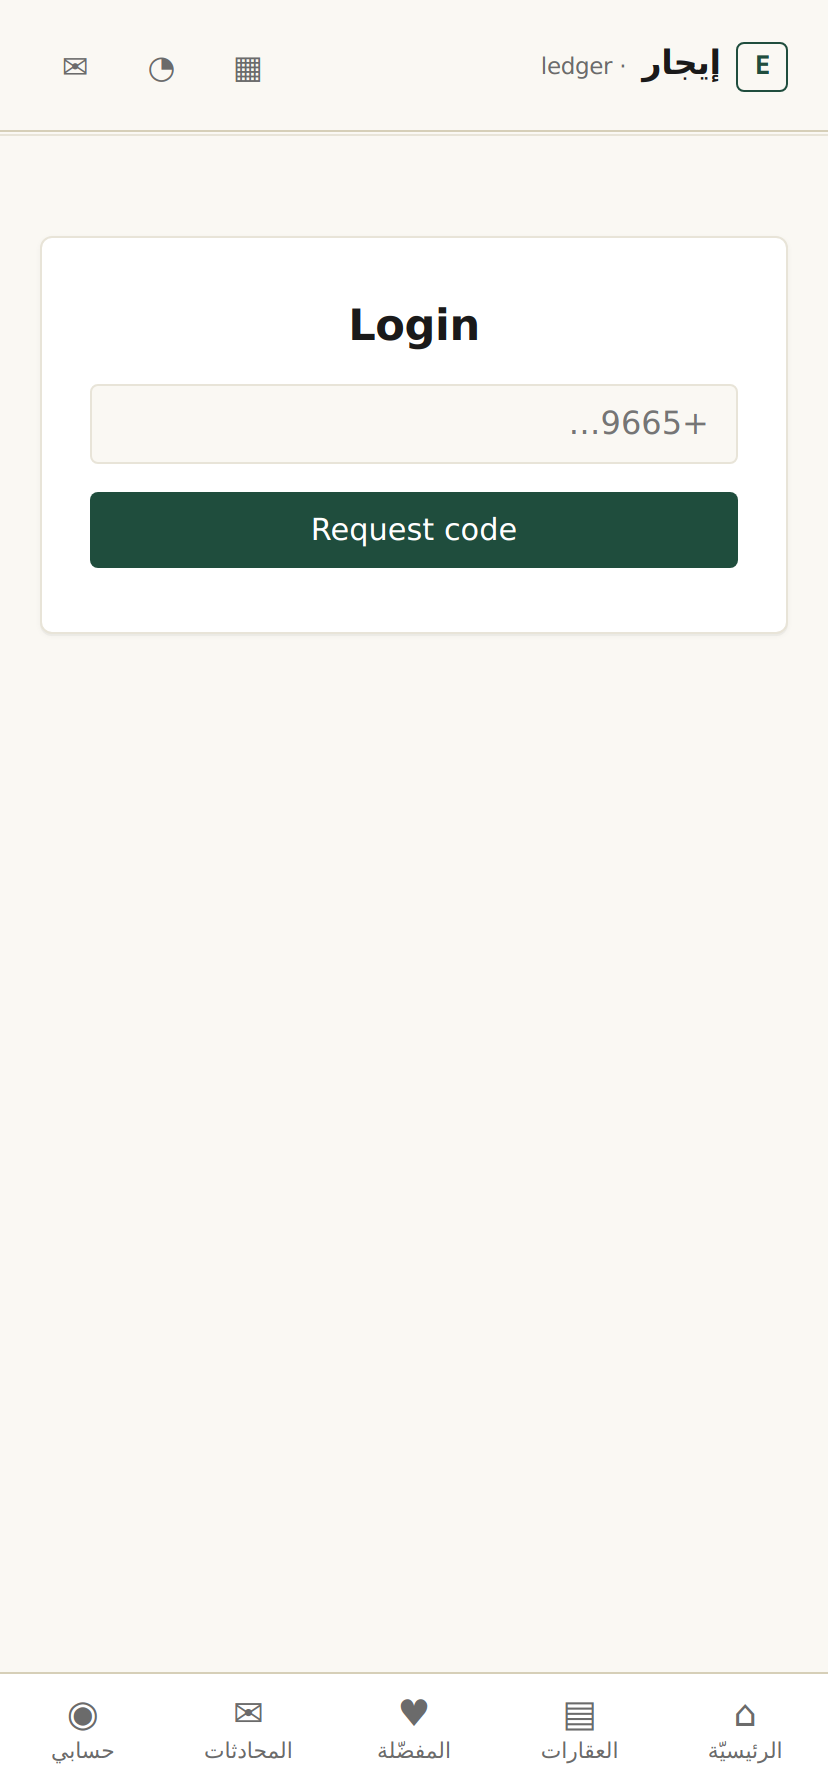
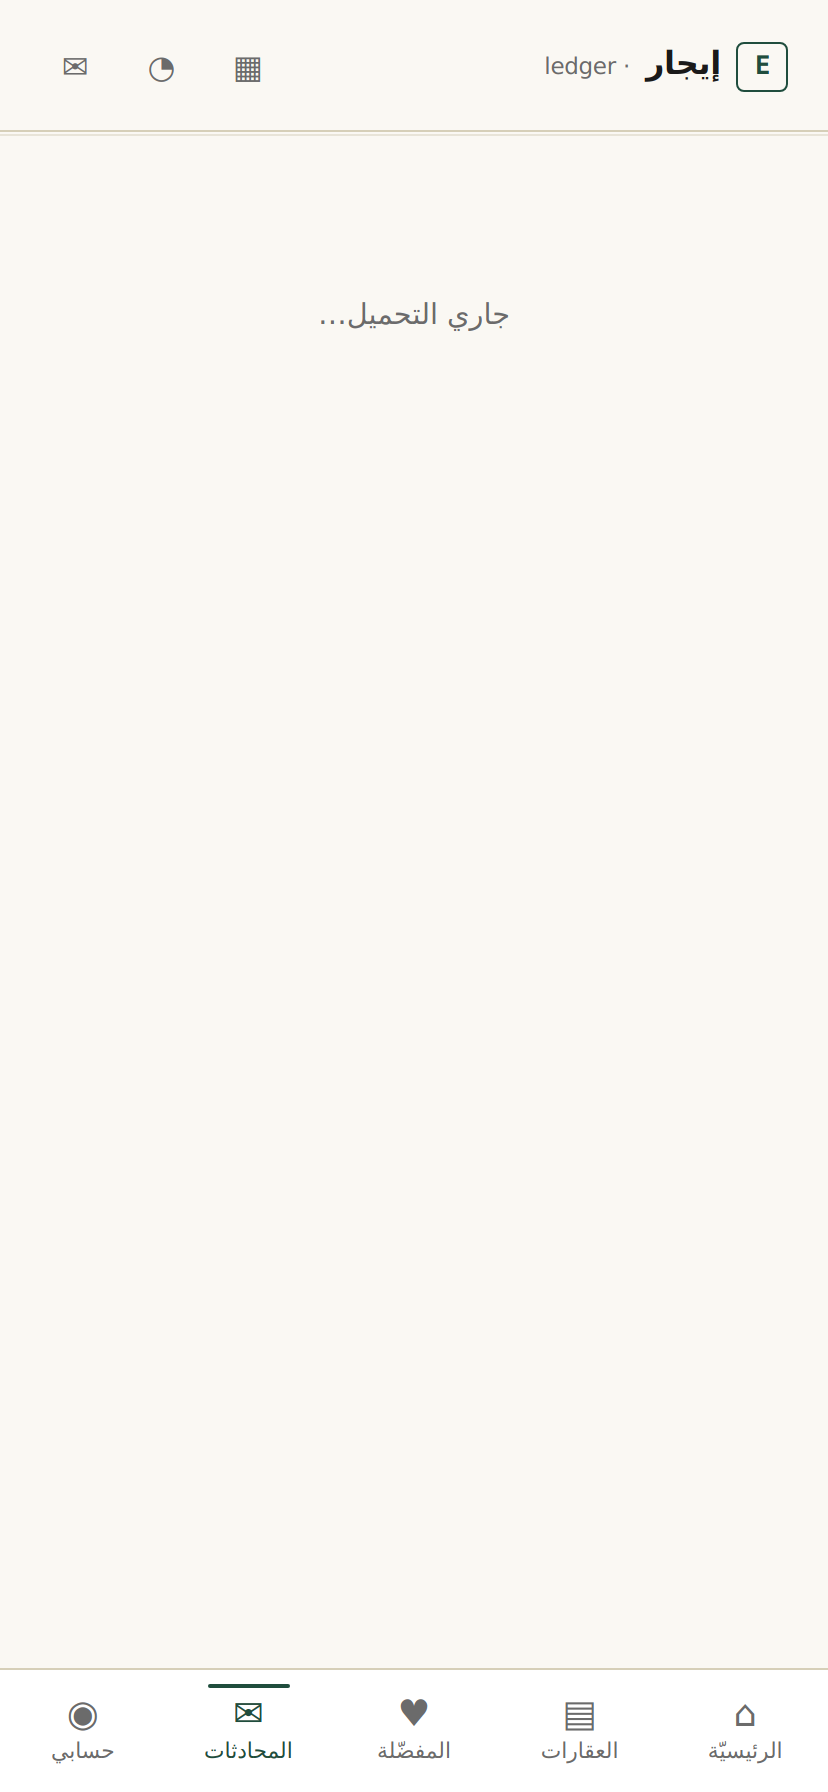
F22: V2 RUNS clean — Layer-6 runtime suite passes 0 violations
Root cause of previous crash: _RedirectToLogin called Nav.NavigateTo in
OnInitialized, which fires during prerender. NavigationException isn't
caught in user code at that phase ⇒ exit -1.

Fixes:
  _RedirectToLogin → OnAfterRenderAsync (interactive only, prerender-safe)
  prerender re-enabled (default) — first paint shows .ejar-shell
  HostedApp wraps both auth-gate branches in <LayoutView Layout=DefaultLayout>
  ejar-brand 1.05rem → 1rem (on design scale)
  ejar-bottomnav padding .35rem → .5rem (4-pt grid)
  --oam-ink-faint #9a9a9a → #6b6b6b (WCAG AA 4.5:1)
  app-v2.css — kit widget baseline classes (11 missing classes added)
  scripts/spatial-contracts.json — .ejar-shell approved as root selector

verify-runtime.mjs:
  6 URLs (/, /properties, /login, /dashboard, /chat, /notifications)
  J-template / F-computed / G-contrast / Y-spacing-scale: 0
  Total: 0 violations

Screenshots refreshed in tools/checks/screenshots/v2-*.png.

https://claude.ai/code/session_01N3A7BgG1Ga6fKYmi9CL1vk

diff --git a/Apps/Ejar/Customer/Shared/Ejar.Customer.UI.V2/wwwroot/app-v2.css b/Apps/Ejar/Customer/Shared/Ejar.Customer.UI.V2/wwwroot/app-v2.css
@@ -55,7 +55,7 @@ p  { line-height: 1.65; color: var(--oam-ink); }
 
 .ejar-brand {
   display: flex; align-items: baseline; gap: .5rem;
-  font-weight: 700; font-size: 1.05rem;
+  font-weight: 700; font-size: 1rem;          /* 16px on scale */
   color: var(--oam-ink);
   letter-spacing: -0.01em;
 }
@@ -95,7 +95,7 @@ p  { line-height: 1.65; color: var(--oam-ink); }
   display: flex; justify-content: space-around;
   background: var(--oam-card);
   border-top: 1px solid var(--oam-line-strong);
-  padding: .35rem 0 .5rem;
+  padding: .5rem 0;                /* 8px على شبكة 4-pt */
   z-index: 10;
   max-width: 760px; margin: 0 auto;
 }
@@ -347,3 +347,46 @@ p  { line-height: 1.65; color: var(--oam-ink); }
   color: var(--oam-exec);
   cursor: pointer;
 }
+
+/* ─── kit widget classes — Layer 2 baseline ─────────────────────────────
+ * كلاسات تَستعملها kit widgets الافتراضيّة. أبسط styling — bottom-up
+ * elegant: padding، borders، colors من OAM tokens.
+ * ─────────────────────────────────────────────────────────────────────── */
+.ac-chat-room        { display: flex; flex-direction: column; gap: .65rem; }
+.ac-create-listing   { padding: 1rem 0; }
+.ac-listing-details  { padding: 1rem 0; }
+.ac-listings-explore { padding: .25rem 0; }
+.ac-my-listings      { padding: 0; }
+.ac-my-listings header {
+  display: flex; justify-content: space-between; align-items: baseline;
+  margin-bottom: .65rem; padding-bottom: .35rem;
+  border-bottom: 1px solid var(--oam-line);
+}
+.ac-my-listings header h1 { margin: 0; font-size: 1.1rem; }
+.ac-profile          { padding: 1.25rem; background: var(--oam-card);
+                       border: 1px solid var(--oam-line); border-radius: var(--oam-radius);
+                       box-shadow: var(--oam-shadow); }
+.ac-profile h1       { margin: 0 0 .35rem; font-size: 1.1rem; }
+.ac-profile p        { margin: 0; color: var(--oam-ink-mute);
+                       font-family: var(--oam-font-mono); font-size: .85rem; }
+
+.ac-plans            { display: flex; flex-direction: column; gap: .85rem;
+                       padding: .25rem 0; }
+.ac-plans-grid       { list-style: none; padding: 0; margin: 0;
+                       display: grid; grid-template-columns: 1fr; gap: .5rem; }
+.ac-plans-grid li    { background: var(--oam-card); border: 1px solid var(--oam-line);
+                       border-radius: var(--oam-radius); padding: 1rem 1.15rem;
+                       box-shadow: var(--oam-shadow); }
+.ac-plans-grid li h2 { margin: 0 0 .25rem; font-size: 1rem; }
+.ac-plans-grid li button {
+  margin-top: .5rem; padding: .4rem .85rem;
+  background: var(--oam-exec); color: #fff;
+  border: 0; border-radius: var(--oam-radius-sm);
+  cursor: pointer; font: 500 .85rem var(--oam-font-body);
+}
+
+.ac-price            { font-family: var(--oam-font-mono);
+                       font-size: 1.1rem; font-weight: 600;
+                       color: var(--oam-exec); margin: .35rem 0; }
+.ac-location         { font-size: .9rem; color: var(--oam-ink-mute); margin-bottom: .5rem; }
+.ac-description      { line-height: 1.7; color: var(--oam-ink); }

diff --git a/libs/templates/OAM/ACommerce.Templates.OAM/wwwroot/oam-fingerprint.css b/libs/templates/OAM/ACommerce.Templates.OAM/wwwroot/oam-fingerprint.css
@@ -20,7 +20,7 @@
   --oam-line-strong:  #d6cfb8;   /* فواصل بارزة */
   --oam-ink:          #1a1a1a;   /* النصّ الأساسيّ */
   --oam-ink-mute:     #6b6b6b;   /* النصّ الثانويّ */
-  --oam-ink-faint:    #9a9a9a;   /* placeholders */
+  --oam-ink-faint:    #6b6b6b;   /* placeholders — كان #9a9a9a لكن WCAG AA يَتَطلَّب 4.5:1 */
 
   /* الأختام */
   --oam-exec:         #1f4d3d;   /* أخضر forest — نُفِّذ */
